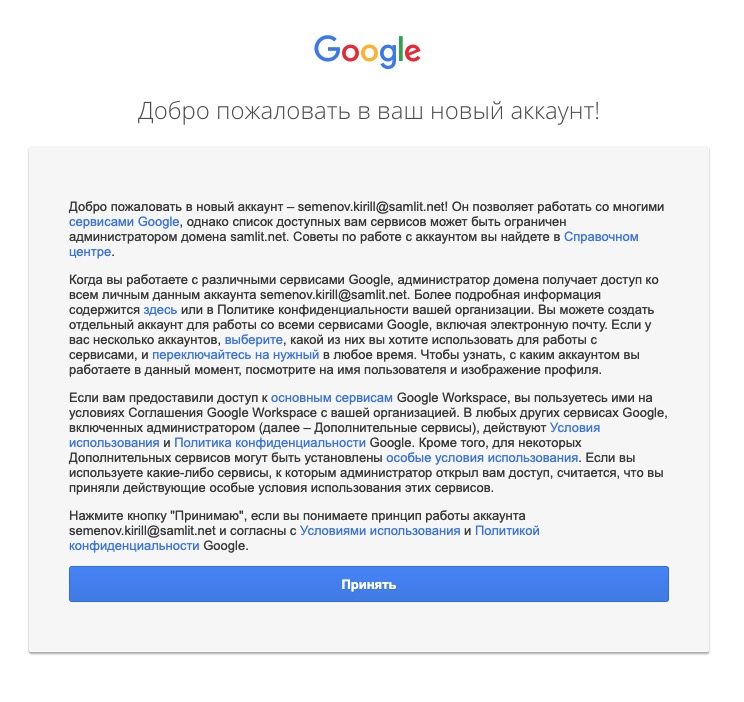
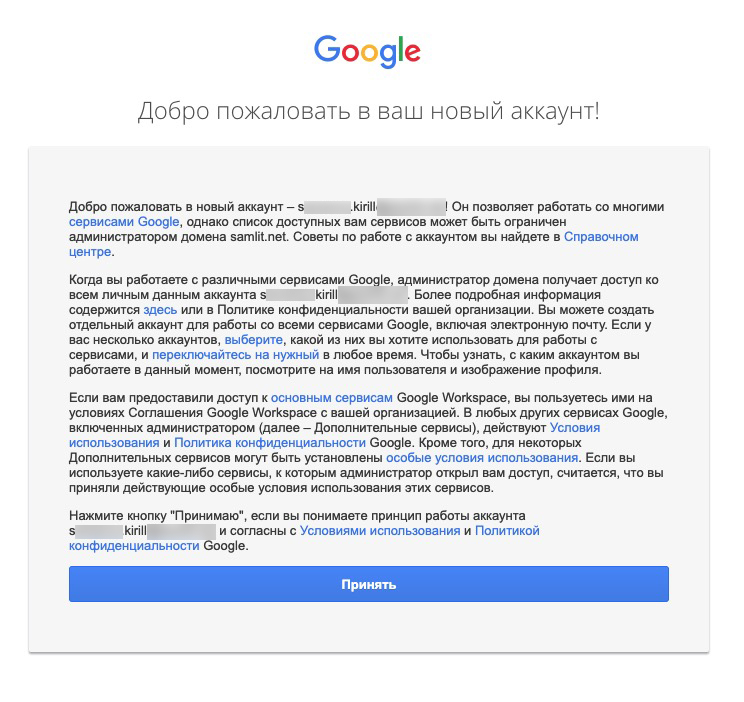
starting to rename files

diff --git a/src/article/section2.js b/src/article/section2.js
@@ -2,36 +2,36 @@ import React from 'react'
 import styles from './article.module.scss'
 import imagePasswordChanged from '../resources/section2/password-changed.jpeg'
 
-import imageGovnonenkoVideos from '../resources/section2/govnonenko-videos.jpeg'
-import imageGovnonenkoVideoExample from '../resources/section2/govnonenko-video-example.jpeg'
-import imageGovnonenkoPassport from '../resources/section2/govnonenko-passport.jpeg'
-import imageGovnonenkoEmail from '../resources/section2/govnonenko-email.jpg'
-import imageHuetsEmail from '../resources/section2/huets-email.jpeg'
+import imageGVNVideos from '../resources/section2/govnonenko-videos.jpeg'
+import imageGVNVideoExample from '../resources/section2/govnonenko-video-example.jpeg'
+import imageGVNPassport from '../resources/section2/govnonenko-passport.jpeg'
+import imageGVNEmail from '../resources/section2/govnonenko-email.jpg'
+import imageHUECEmail from '../resources/section2/huets-email.jpeg'
 
-import imageAgeevDisk from '../resources/section2/ageev-disk.jpeg'
-import imageKomarovaDisk from '../resources/section2/komarova-disk.jpeg'
-import imageKomarovaPhotos from '../resources/section2/komarova-photos.jpeg'
-import imageDeminaPhotos from '../resources/section2/demina-photos.jpeg'
-import imageStukalinaDeletion from '../resources/section2/stukalina-deletion.jpg'
+import imageAGVDisk from '../resources/section2/ageev-disk.jpeg'
+import imageKMRDisk from '../resources/section2/komarova-disk.jpeg'
+import imageKMRPhotos from '../resources/section2/komarova-photos.jpeg'
+import imageDMNPhotos from '../resources/section2/demina-photos.jpeg'
+import imageSTKDeletion from '../resources/section2/stukalina-deletion.jpg'
 import imagePasswordChange from '../resources/section2/password-change.jpg'
 
-import imageGirshovskyRegistration from '../resources/section2/girshovsky-registration.jpg'
-import imageGengutRegistration from '../resources/section2/gengut-registration.jpeg'
-import imageSemenovRegistration from '../resources/section2/semenov-registration.jpeg'
-import imagePopovichRegistration from '../resources/section2/popovich-registration.jpeg'
+import imageGRSRegistration from '../resources/section2/girshovsky-registration.jpg'
+import imageGNGRegistration from '../resources/section2/gengut-registration.jpeg'
+import imageSMNRegistration from '../resources/section2/semenov-registration.jpeg'
+import imagePPVRegistration from '../resources/section2/popovich-registration.jpeg'
 
-import imageDeminaInstagram from '../resources/section2/demina-instagram.jpeg'
-import imageDeminaDrive from '../resources/section2/demina-drive.jpeg'
-import imageNovikovEmail from '../resources/section2/novikov-email.jpeg'
-import imageSmirnovEmail from '../resources/section2/smirnov-email.png'
-import imageSmolenkovEmail from '../resources/section2/smolenkov-email.jpeg'
+import imageDMNInstagram from '../resources/section2/demina-instagram.jpeg'
+import imageDMNDrive from '../resources/section2/demina-drive.jpeg'
+import imageNVKEmail from '../resources/section2/novikov-email.jpeg'
+import imageSMREmail from '../resources/section2/smirnov-email.png'
+import imageSMLEmail from '../resources/section2/smolenkov-email.jpeg'
 
 import imageChatMembers from '../resources/section2/chat-members.jpeg'
 import imageChat1 from '../resources/section2/chat1.jpeg'
 import imageChat2 from '../resources/section2/chat2.jpeg'
 
-import imageFainshteinDrive from '../resources/section2/fainshtein-drive.jpeg'
-import imageKutlinDrive from '../resources/section2/kutlin-drive.jpeg'
+import imageFNSDrive from '../resources/section2/fainshtein-drive.jpeg'
+import imageKTLDrive from '../resources/section2/kutlin-drive.jpeg'
 import imageKEMcons from '../resources/section2/kem-cons.jpeg'
 import imageAccountsLogOut from '../resources/section3/accounts-log-out.jpg'
 
@@ -48,87 +48,91 @@ export default function Section2() {
         изначально был выдан Марковым. Дело в том, что 8 месяцев назад, зимой 2020, пароли были сброшены. Я думаю, это
         было приурочено к началу дистанционного обучения на карантине.
       </p>
+      <p>
+        <b>UPD Jul 2021:</b> Марков объяснил сброс тем, что «не мог за 6 часов разослать всем пароли». Ну да, а
+        постановление от директора или справку он за 10 минут может разослать.
+      </p>
       <Image src={imagePasswordChanged} label='В течение 12 месяцев Google пишет дату изменения пароля при попытке его ввода' />
       <p>
         Забавно, что я обнаружил это, пытаясь войти в свой же собственный аккаунт. Видимо, некоторые ученики догадались
         сменить пароль раньше меня, потому что к нескольким аккаунтам стандартный пароль не подошел.
       </p>
       <p>
-        Вот еще несколько примеров «взломанных» мной аккаунтов. На Google-диске старшеклассника Виктора Романенко я
+        Вот еще несколько примеров «взломанных» мной аккаунтов. На Google-диске старшеклассника Виктора Р. я
         нашел многочасовые видео-ролики с демонстрацией неизвестного мне компьютерного проекта. Возможно, он
         продемонстрировал там закрытый код, и кто-то мог этот код скопировать и навредить Виктору.
       </p>
-      <Image src={imageGovnonenkoVideos} />
-      <Image src={imageGovnonenkoVideoExample} label='Одно из видео на диске' />
+      <Image src={imageGVNVideos} />
+      <Image src={imageGVNVideoExample} label='Одно из видео на диске' />
       <p>
         А вот кое-что поинтереснее: на диске Виктора я нашел данные из его паспорта и подпись. Это анкета участника ВООШ.
       </p>
-      <Image src={imageGovnonenkoPassport} label='В соответствии со ст. 1. ФЗ «О персональных данных», подпись — не биометрические данные' />
+      <Image src={imageGVNPassport} label='В соответствии со ст. 1. ФЗ «О персональных данных», подпись — не биометрические данные' />
       <p>
         Это скриншот почты Виктора. Оттуда можно отправить письмо, посмотреть отправленные документы. Я, например, узнал
         куда собирается поступать Виктор и какими сайтами он пользуется.
       </p>
-      <Image src={imageGovnonenkoEmail} />
+      <Image src={imageGVNEmail} />
       <p>
         А это почта друга Виктора, Тимофея. Можно
         использовать все эти аккаунты со стандартным паролем для массовых бот-атак для регистрации на сайтах, почтового спама
         накрутки статистики под видео на YouTube, накрутки отзывов в Play Market и в других сервисах.
       </p>
-      <Image src={imageHuetsEmail} />
+      <Image src={imageHUECEmail} />
       <p>
         Я пробовал найти почты других пользователей через Moodle, который переполнен багами и критическими уязвимостями
         (читайте мою
         статью <a href='https://awfulsamlitwebsite.utidteam.com' target='_blank' rel='noreferrer'>100 причин почему у
         школы СамЛИТ плохой вебсайт</a>),
         но в итоге решил сделать это через поиск внутри организации в почте Gmail (в поле получателя письма).
-        Также пароль от аккаунта не поменяли Ваня Агеев и Дарья Комарова — мои одноклассники.
+        Также пароль от аккаунта не поменяли Ваня А. и Дарья К. — мои одноклассники.
       </p>
-      <Image src={imageAgeevDisk} />
-      <Image src={imageKomarovaDisk} />
+      <Image src={imageAGVDisk} />
+      <Image src={imageKMRDisk} />
       <p>
         На диске Дарьи я нашел альбом фотографий с другими людьми. Этих фотографий я более нигде не видел, поэтому могу
         предположить, что они были загружены на диск для хранения.
       </p>
-      <Image src={imageKomarovaPhotos} />
+      <Image src={imageKMRPhotos} />
       <p>
         Дарья — не единственная, кто хранил фотографии на диске. Вот еще один альбом фотографий Марии
         Дёминой
       </p>
-      <Image src={imageDeminaPhotos} />
+      <Image src={imageDMNPhotos} />
       <p>
         Но я пишу эту статью не для того, чтобы показывать вам размытые картинки случайных людей. Вместо того, чтобы
-        смотреть эти фотографии я могу просто взять и удалить аккаунт целиком. Если бы у аккаунта Елизаветы Стукалиной
+        смотреть эти фотографии я могу просто взять и удалить аккаунт целиком. Если бы у аккаунта Елизаветы С.
         была включена двухэтапная аутентификация, ей бы пришлось ввести код из СМСки, прежде чем удалять аккаунт.
       </p>
-      <Image src={imageStukalinaDeletion} />
+      <Image src={imageSTKDeletion} />
       <p>
         А могу поменять пароль. Обратите внимание, что Google просит не ставить простые пароли. Но Марков, видимо,
         прочитал лишь часть про минимальную длину в 8 символов.
       </p>
       <Image src={imagePasswordChange} />
       <p>
-        Ниже доказательство, что эти гугл-аккаунты лишь тратят бюджет школы и никому не нужны. Георгий Гиршовский,
-        Мария Генгут, Кирилл Семенов, Попович Макар, и, скорее всего, многие другие за 3 года ни разу не зашли в свой аккаунт.
+        Ниже доказательство, что эти гугл-аккаунты лишь тратят бюджет школы и никому не нужны. Георгий Г.,
+        Мария Г., Кирилл С., Макар П., и, скорее всего, многие другие за 3 года ни разу не зашли в свой аккаунт.
       </p>
-      <Image src={imageGirshovskyRegistration} />
-      <Image src={imageGengutRegistration} />
-      <Image src={imageSemenovRegistration} />
-      <Image src={imagePopovichRegistration} />
+      <Image src={imageGRSRegistration} />
+      <Image src={imageGNGRegistration} />
+      <Image src={imageSMNRegistration} />
+      <Image src={imagePPVRegistration} />
       <p>
         Я смог получить доступ и к другим аккаунтам и проверял сервис Google Drive от имени этих аккаунтов.
       </p>
-      <Image src={imageDeminaDrive} label='Личные файлы Марии Дёминой'/>
-      <Image src={imageFainshteinDrive} label='Забавные тесты Матвея Файнштейна'/>
-      <Image src={imageKutlinDrive} label='Диск Вадима Кутлина'/>
+      <Image src={imageDMNDrive} label='Личные файлы Марии Д.'/>
+      <Image src={imageFNSDrive} label='Забавные тесты Матвея Ф.'/>
+      <Image src={imageKTLDrive} label='Диск Вадима К.'/>
       <p>
         Также я смог войти в почты этих аккаунтов, но показать их содержимое не могу, потому что опасаюсь статьи 272, а
         именно о копировании (распространении) персональной информации. Но там ничего интересного нет :)
       </p>
-      <Image src={imageDeminaInstagram} label='Смена почты у удаленного инстаграм-аккаунта Марии Дёминой'/>
-      <Image src={imageNovikovEmail} label='Владимир Новиков'/>
-      <Image src={imageSmolenkovEmail} label='Артём Смоленков'/>
+      <Image src={imageDMNInstagram} label='Смена почты у удаленного инстаграм-аккаунта Марии Д.'/>
+      <Image src={imageNVKEmail} label='Владимир Н.'/>
+      <Image src={imageSMLEmail} label='Артём С.'/>
       <Image src={imageKEMcons} label='7 заявлений с личными данными учеников' />
-      <Image src={imageSmirnovEmail} label='Кирилл Смирнов'/>
+      <Image src={imageSMREmail} label='Кирилл С.'/>
       <p>
         На последнем скриншоте я заметил беседу 7А в Hangouts. Она была создана еще когда нам раздавали бумажки с логинами
         и паролями от аккаунтов. Тогда же нам объясняли, что в Gmail можно переписываться.

diff --git a/src/article/section3.js b/src/article/section3.js
@@ -48,9 +48,9 @@ export default function Section3() {
         <li>
           <div className={globalStyles.marker} />
           <div>
-            <b>Еще одно предложение: не использовать аккаунты гугл вообще.</b> А зачем они? Почта сейчас есть у каждого ученика, лично меня никто не
-            заставлял пользоваться почтой СамЛИТа при участии в конкурсах. Для этого, конечно, нужно начать
-            предоставлять доступ по ftp.
+            <b>Еще одно предложение: не использовать аккаунты гугл вообще.</b> А зачем они? Почта сейчас есть у
+            каждого ученика, лично меня никто не заставлял пользоваться почтой СамЛИТа при участии в конкурсах. Для
+            этого, конечно, нужно начать предоставлять доступ по ftp.
           </div>
         </li>
       </ol>
@@ -61,6 +61,10 @@ export default function Section3() {
       <p>
         В конце прошу вас проголосовать в этом опросе. Также благодарю всех, кто поддерживал и поддерживает меня, после того,
         как Марков сказал, что будет писать заявление на меня, за помощь, наверное :)
+      </p>
+      <p>
+        <b>UPD Jul 2021:</b> В статье НЕ СОДЕРЖИТСЯ персональных данных ни одного человека, кроме меня и публичных данных
+        Маркова. Если вы собираетесь со мной судиться — удачи, у вас ничего не выйдет.
       </p>
       <div className={styles.poll}><Poll /></div>
       <p>На этом все, спасибо. С любовью, Виктор. 2021</p>

diff --git a/src/article/introduction.js b/src/article/introduction.js
@@ -18,6 +18,11 @@ export default function Introduction() {
         со своего компьютера стёр, как показано в последней главе, и никуда не копировал. Надеюсь, А. А. Марков предпримет
         все необходимые меры по защите аккаунтов, чтобы я смог безопасно опубликовать статью.
       </p>
+      <p>
+        <b>UPD Jul 2021:</b> Клоун Марков вместо того, чтобы признать свое поражение и поменять пароли, вызвал меня на
+        «профилактическую беседу». По результатам мне придется замазать фамилии в этой статье и почты. Никого ни к каким
+        незаконным действия не призываю, но насколько я понял, Марков до сих пор не сменил пароли пользователей :)
+      </p>
     </section>
   )
 }

diff --git a/src/article/section1.js b/src/article/section1.js
@@ -41,7 +41,7 @@ export default function Section1() {
       </p>
       <p>
         Помимо доступа к файлам, учитель объяснил нам, что можно использовать аккаунт Google для переписки и почты.
-        И некоторые ученики действительно использовали школьный аккаунт как основной. Например, Мария Демина смотрела
+        И некоторые ученики действительно использовали школьный аккаунт как основной. Например, Мария Д. смотрела
         через него YouTube и подписалась на множество каналов.
       </p>
       <Image src={imageDeminaYoutube} label='Скриншот главной страницы YouTube в аккаунте Марии' />
